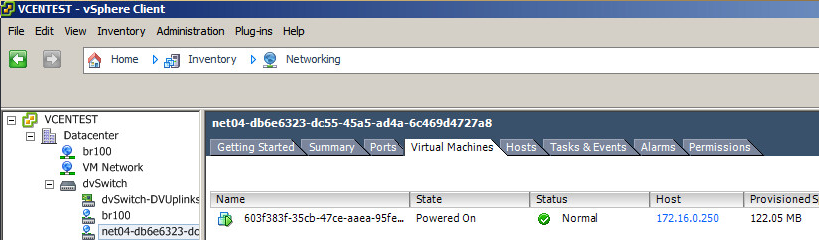
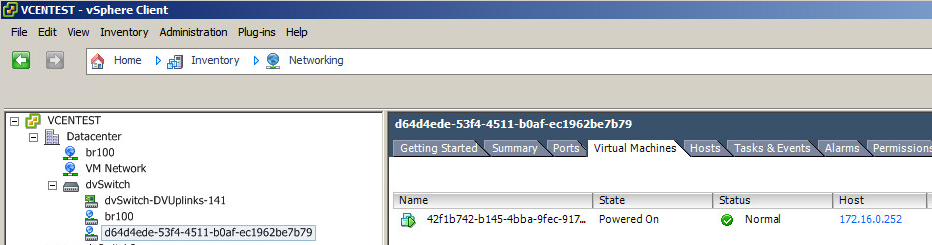
Change screenshots
The net04 was renamed in Fuel 8.0. According to it 2 screenshots should
be changed.

Changed region(s): [[0.0, 0.4375, 1.0, 1.0], [0.0, 0.0, 1.0, 0.175], [0.0, 0.2042, 1.0, 0.3208]]

diff --git a/docs/install_guide/user.rst b/docs/install_guide/user.rst
@@ -2,7 +2,8 @@ Using advanced neutron's possibilities with VMware DVS plugin
 -------------------------------------------------------------
 
 #. Once OpenStack has been deployed, we can start using Neutron for
-   networking. The net04 port group should appear on the vCenter:
+   networking. The port group for admin\_internal\_net should appear
+   on the vCenter:
 
    .. image:: _static/net04pg.png
 
